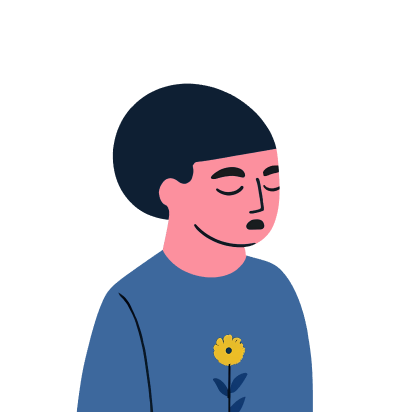
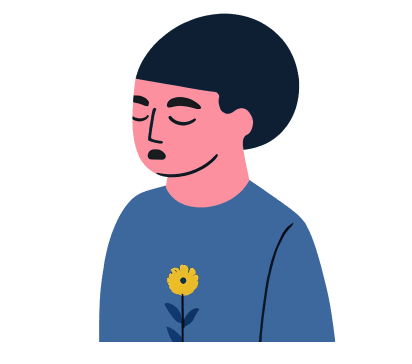
update pictures sizes and gulpfile.js

Changed region(s): [[0.1748, 0.0302, 0.8155, 1.0], [0.6408, 0.6951, 0.6699, 0.8462], [0.3204, 0.7555, 0.3495, 0.8462]]

diff --git a/source/borders.html b/source/borders.html
@@ -5,9 +5,9 @@
   <meta charset="UTF-8">
   <meta name="viewport" content="width=device-width, initial-scale=1.0">
   <meta name="description" content="Дизайн-система Healify">
-  <meta name="keywords" content="дизайн-система, Healify, сетка, HTML, CSS, студенческий проект">
+  <meta name="keywords" content="дизайн-система, Healify, бордеры, HTML, CSS, студенческий проект">
   <link rel="stylesheet" href="css/style.css">
-  <title>Дизайн-система Healify. Сетка</title>
+  <title>Дизайн-система Healify. Бордеры</title>
 </head>
 
 <body class="page-body">
@@ -17,15 +17,15 @@
       @@include('./blocks/header.html')
       <section class="header__bottom">
         <div class="header__content">
-          <h1 class="header__title title">Сетка</h1>
-          <p class="header__text">Сетки отвечают за&nbsp;расположение и&nbsp;организацию всех компонентов
-            пользовательского интерфейса&nbsp;&mdash; меню, кнопки, меню, сайдбар, разделы контента и&nbsp;другие
-            визуальные элементы.</p>
+          <h1 class="header__title title">Бордеры</h1>
+          <p class="header__text">Healify использует скругление углов и&nbsp;толщины бордера для различных компонентов.
+            Значения радиусов углов равны 50,30 и&nbsp;20. Значения толщины бордера равны 5, 3, 2. Эти показатели
+            зависят от&nbsp;размера компонента, к&nbsp;которому они применяются.</p>
         </div>
         <picture class="header__picture">
-          <source type="image/webp" srcset="img/Flowerdude.webp 1x,img/Flowerdude@2x.webp 2x">
-          <img class="header__image" src="img/Flowerdude.png" srcset="img/Flowerdude@2x.png 2x"
-            alt="Парень в синей кофте и с желтым цветком в руке" width="412" height="364">
+          <source type="image/webp" srcset="img/sleepingDude.webp 1x,img/sleepingDude@2x.webp 2x">
+          <img class="header__image" src="img/sleepingDude.png" srcset="img/sleepingDude@2x.png 2x"
+            alt="Девушка, дремлющая на своей руке" width="412" height="364">
         </picture>
       </section>
     </div>
@@ -115,7 +115,8 @@
           <picture class="fixed-grid__picture">
             <source type="image/webp" srcset="img/fixedContent.webp 1x,img/fixedContent@2x.webp 2x">
             <img class="fixed-grid__image" src="img/fixedContent.png" srcset="img/fixedContent@2x.png 2x"
-              alt="Меню сбоку имеет фиксированный размер, а расстояние от него до центральной части равно 97 пискелей" width="760" height="570">
+              alt="Меню сбоку имеет фиксированный размер, а расстояние от него до центральной части равно 97 пискелей"
+              width="760" height="570">
           </picture>
         </section>
       </div>

diff --git a/source/index.html b/source/index.html
@@ -5,7 +5,7 @@
   <meta charset="UTF-8">
   <meta name="viewport" content="width=device-width, initial-scale=1.0">
   <meta name="description" content="Дизайн-система Healify">
-  <meta name="keywords" content="дизайн-система, итмо, Healify, HTML, CSS, студенческий проект ">
+  <meta name="keywords" content="дизайн-система, итмо, Healify, HTML, CSS, студенческий проект">
   <link rel="stylesheet" href="css/style.css">
   <title>Дизайн-система Healify</title>
 </head>
@@ -27,7 +27,7 @@
         <picture class="header__picture">
           <source type="image/webp" srcset="img/Medit.webp 1x,img/Medit@2x.webp 2x">
           <img class="header__image" src="img/Medit.png" srcset="img/Medit@2x.png 2x"
-            alt="Темноволосая девушка сидит в позе лотоса и медитирует" width="412" height="412">
+            alt="Темноволосая девушка сидит в позе лотоса и медитирует" width="412" height="364">
         </picture>
       </section>
     </div>

diff --git a/source/palette.html b/source/palette.html
@@ -5,7 +5,7 @@
   <meta charset="UTF-8">
   <meta name="viewport" content="width=device-width, initial-scale=1.0">
   <meta name="description" content="Дизайн-система Healify">
-  <meta name="keywords" content="дизайн-система, Healify, палитра,  HTML, CSS, студенческий проект, ">
+  <meta name="keywords" content="дизайн-система, Healify, палитра, HTML, CSS, студенческий проект">
   <link rel="stylesheet" href="css/style.css">
   <title>Дизайн-система Healify. Палитра</title>
 </head>
@@ -24,7 +24,7 @@
         <picture class="header__picture">
           <source type="image/webp" srcset="img/yoga.webp 1x,img/yoga@2x.webp 2x">
           <img class="header__image" src="img/yoga.png" srcset="img/yoga@2x.png 2x" alt="Девушка, занимающаяся йогой"
-            width="412" height="412">
+            width="412" height="364">
         </picture>
       </section>
     </div>

diff --git a/gulpfile.js b/gulpfile.js
@@ -162,7 +162,7 @@ gulp.task('watcher', () => {
   gulp.watch('./source/js/**/*.js', gulp.series('scripts'))
   gulp.watch('./source/blocks/*.html', gulp.series('html', 'reload'))
   gulp.watch('./source/*.html', gulp.series('html', 'reload'))
-  gulp.watch('./source/img/*.{png, jpeg, jpg, svg}', gulp.series('copy', 'reload'))
+  gulp.watch('./source/img/*.{png, jpeg, jpg, svg}', gulp.series('copyImages', 'createWebp', 'reload'))
   gulp.watch('./source/img/icons/*.svg', gulp.series('sprite', 'reload'))
 })
 

diff --git a/source/sass/blocks/header.scss b/source/sass/blocks/header.scss
@@ -9,7 +9,6 @@
   display: grid;
   grid-template-columns: minmax(100px, min-content) 1fr;
   gap: 30px;
-  align-items: center;
   margin-bottom: 40px;
 }
 
